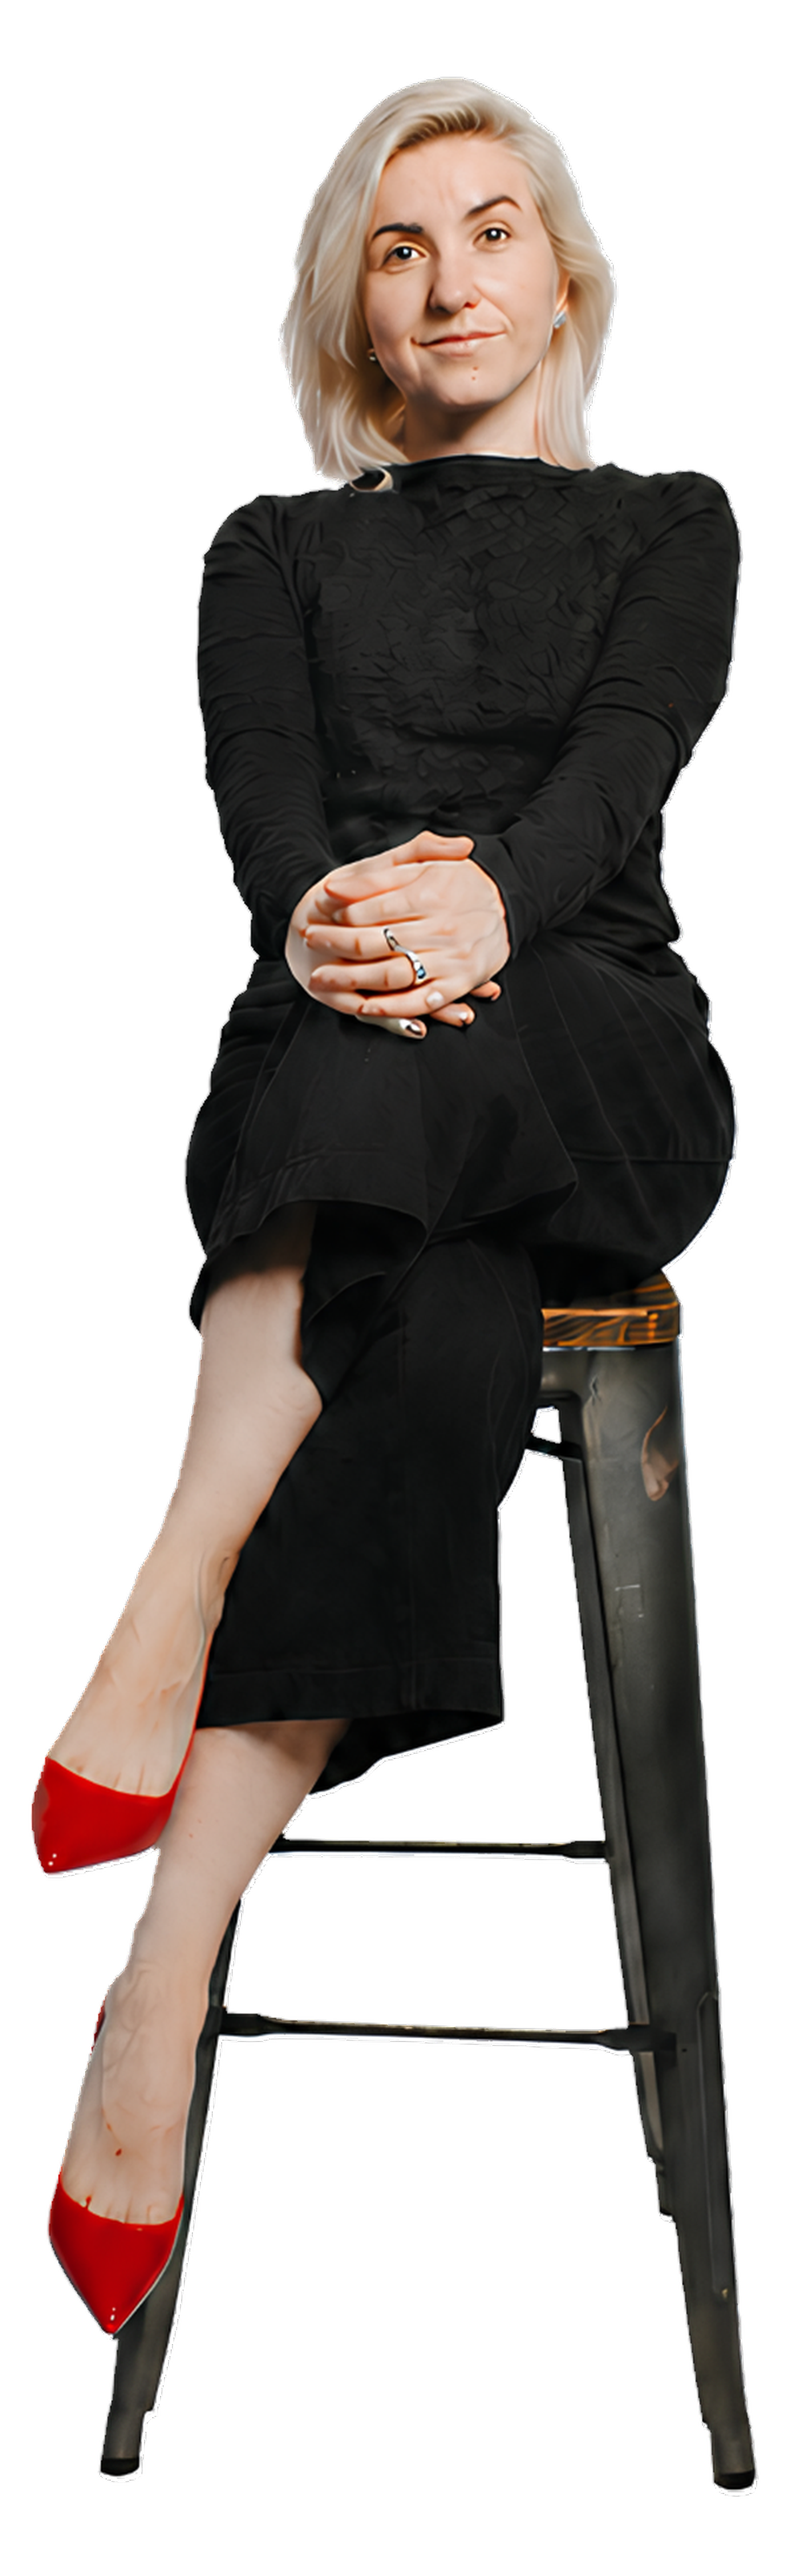
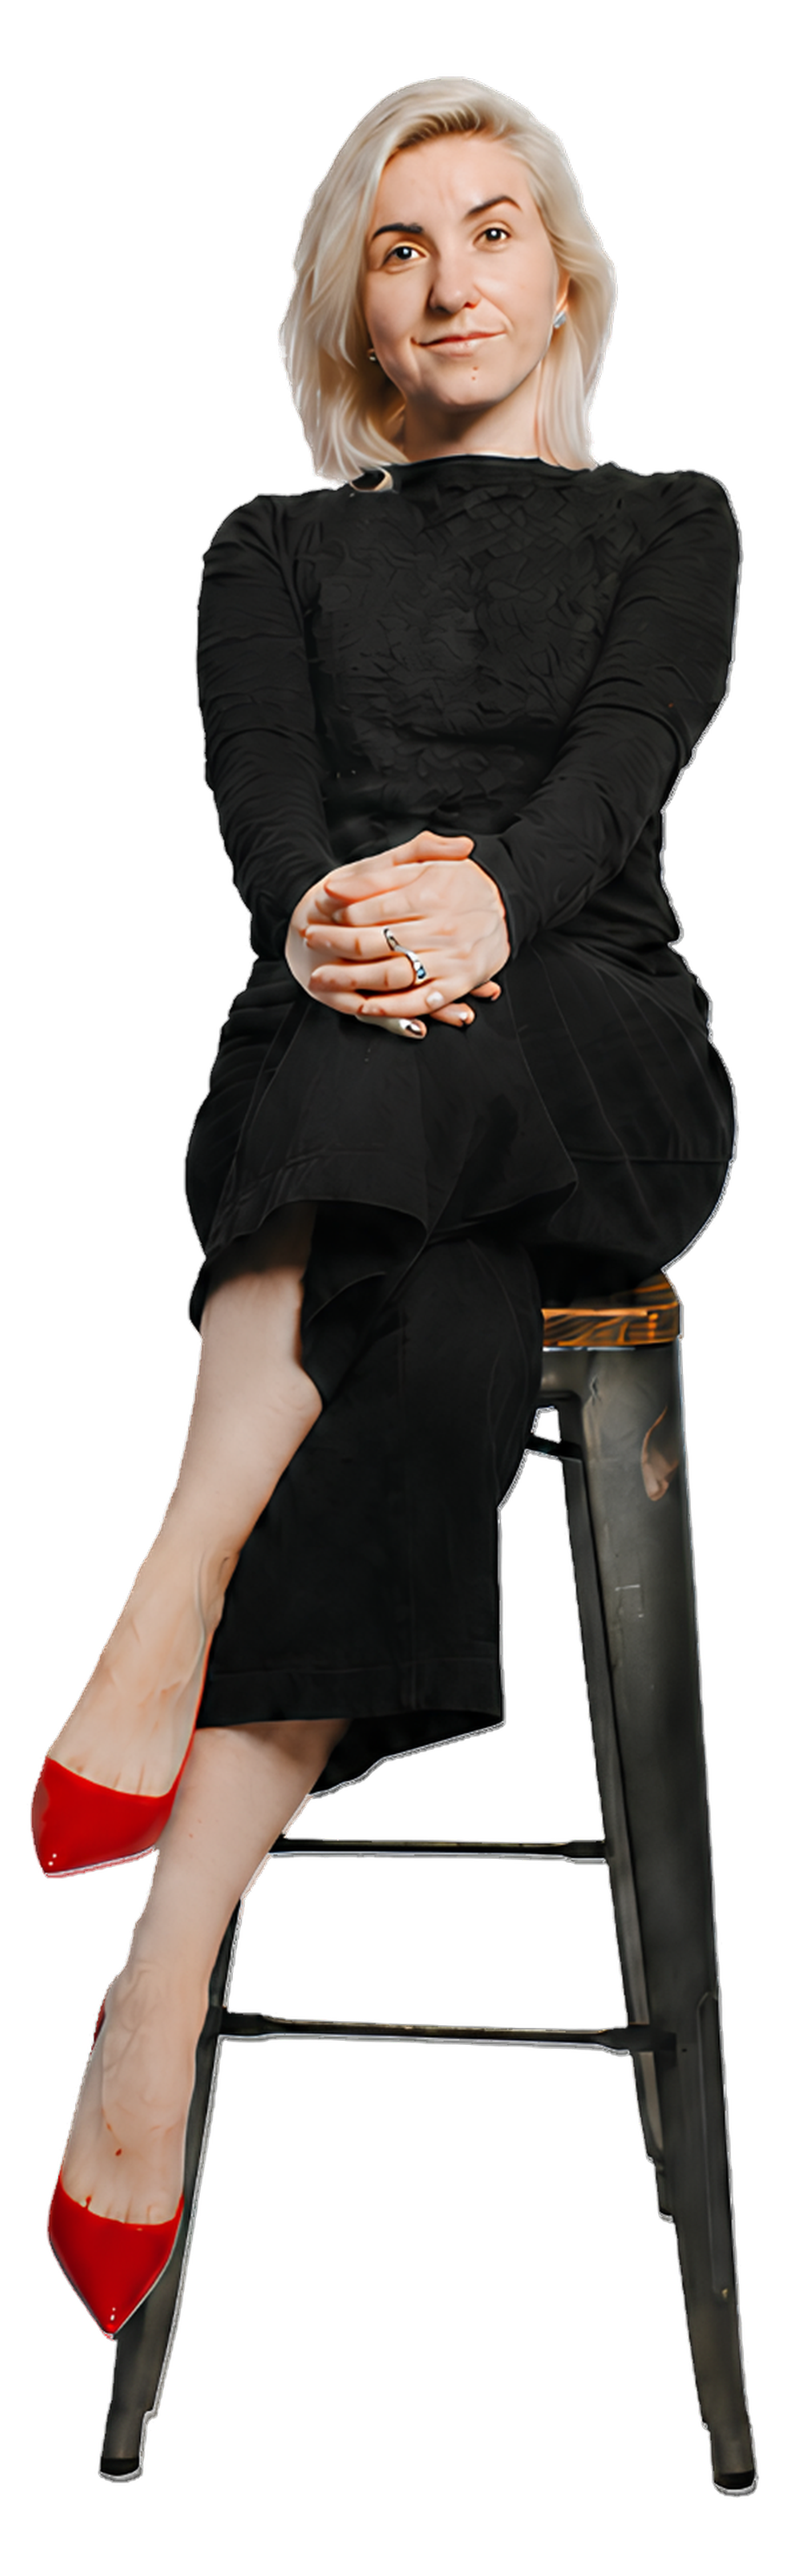
Publish thin-type HQ hero with clean portrait layer

diff --git a/v2/approved.html b/v2/approved.html
@@ -3,35 +3,58 @@
 <head>
 <meta charset="utf-8">
 <meta name="viewport" content="width=device-width,initial-scale=1,viewport-fit=cover">
-<meta name="theme-color" content="#e9ded3">
+<meta name="theme-color" content="#e8d8c9">
+<meta name="description" content="Алина Васильева — бизнес-трекер, коммерческий директор / CCO, Head of Business Development.">
 <title>Алина Васильева — Growth Needs Space</title>
+<link rel="preload" as="image" href="assets/hero-v5-desktop-3840x2160.avif" media="(min-width:1280px)">
+<link rel="preload" as="image" href="assets/hero-v5-mobile-1440x2560.avif" media="(max-width:1279px)">
 <style>
-@font-face{font-family:Editorial;src:url('../assets/noto-serif-display-cyrillic-wght-normal-BkRNFNOU.woff2') format('woff2');font-style:normal;font-weight:100 900;font-display:swap}
-@font-face{font-family:Manrope;src:url('../assets/manrope-cyrillic-wght-normal-Dvxsihut.woff2') format('woff2');font-style:normal;font-weight:100 900;font-display:swap}
-:root{--ink:#181410;--muted:#6d6259;--accent:#c84633;--page:#e9ded3;--pad:clamp(34px,3.2vw,62px);--serif:Editorial,'Bodoni MT',Didot,Georgia,serif;--sans:Manrope,Arial,sans-serif}
-*{box-sizing:border-box}html,body{margin:0;min-height:100%;background:var(--page);color:var(--ink)}body{font-family:var(--sans);overflow-x:hidden;-webkit-font-smoothing:antialiased;text-rendering:optimizeLegibility}a{color:inherit;text-decoration:none}img{display:block}.hero{position:relative;min-height:100svh;overflow:hidden;background:var(--page)}
-.scene,.scene picture,.scene picture img{position:absolute;inset:0;width:100%;height:100%}.scene{z-index:0}.scene img{object-fit:cover;object-position:center center;max-width:none;image-rendering:auto}
-.header{position:absolute;z-index:20;left:var(--pad);right:var(--pad);top:0;height:72px;display:flex;align-items:center;justify-content:space-between;border-bottom:1px solid rgba(24,20,16,.20)}.brand{font-family:var(--serif);font-size:29px;font-weight:270;line-height:1;letter-spacing:-.075em}.nav{display:flex;align-items:center;gap:clamp(25px,2.2vw,40px);font-size:10px;font-weight:700;letter-spacing:.035em;text-transform:uppercase}.burger{display:none}
-.word{position:absolute;z-index:8;top:19.2%;font-family:var(--serif);font-weight:260;font-size:clamp(100px,7.05vw,138px);line-height:.79;letter-spacing:-.058em;text-transform:uppercase;white-space:nowrap}.growth{left:3.2%;}.needs{left:68.4%;font-size:clamp(97px,6.70vw,132px)}.needs span{display:block}.needs .accent{color:var(--accent);margin-top:.07em}
-.portrait-wrap{position:absolute;z-index:6;left:50%;top:72px;bottom:0;width:28.8%;transform:translateX(-50%);display:flex;align-items:flex-end;justify-content:center;pointer-events:none}.portrait{width:auto;height:70.8%;max-width:94%;max-height:calc(100% - 32px);object-fit:contain;object-position:center bottom;margin-bottom:8.3%;filter:none!important}
-.copy{position:absolute;z-index:9;left:3.4%;top:46.3%;width:min(430px,28.5vw)}.copy h1{margin:0;font-size:20px;line-height:1.05;font-weight:760;letter-spacing:-.03em}.role{margin-top:8px;color:var(--muted);font-size:10px;line-height:1.45;font-weight:650;text-transform:uppercase;letter-spacing:.035em}.lead{display:grid;gap:13px;margin-top:25px;font-size:13px;line-height:1.48;letter-spacing:-.01em}.lead p{margin:0}.cta{display:inline-block;margin-top:18px;color:var(--accent);font-size:10.4px;font-weight:750;letter-spacing:.06em;text-transform:uppercase;padding-bottom:7px;border-bottom:1px solid var(--accent)}
-.telegram{position:absolute;z-index:9;left:68.4%;top:61.4%;width:min(310px,22vw);padding-top:14px;border-top:1px solid rgba(24,20,16,.25)}.telegram small{display:block;color:var(--muted);font-size:9px;letter-spacing:.095em}.telegram strong{display:block;margin-top:9px;font-size:18px;font-weight:500;letter-spacing:-.025em}
-.facts{position:absolute;z-index:9;left:3.1%;right:3.1%;bottom:3.0%;display:grid;grid-template-columns:1fr 1fr 1.25fr;gap:8vw;align-items:end}.fact strong{display:block;font-family:var(--serif);font-size:clamp(25px,1.65vw,33px);font-weight:280;line-height:.95;letter-spacing:-.04em;white-space:nowrap}.fact span{display:block;margin-top:7px;color:var(--muted);font-size:7.7px;font-weight:650;letter-spacing:.055em;text-transform:uppercase}.fact:last-child{justify-self:end;width:min(360px,100%)}
-@media(min-width:1900px) and (min-aspect-ratio:2/1){.portrait-wrap{width:26.8%}.growth{left:4.0%;}.needs{left:70.2%}.copy{left:4.0%}.telegram{left:70.2%}.facts{left:4%;right:4%}}
-@media(max-width:1279px){.hero{min-height:0;overflow:visible;padding-bottom:48px}.header{position:relative;height:64px;border-bottom:0}.nav{display:none}.burger{display:block;width:36px;height:36px;position:relative}.burger:before,.burger:after,.burger i{content:"";position:absolute;left:1px;right:1px;height:1.5px;background:var(--ink)}.burger:before{top:9px}.burger i{top:17px}.burger:after{top:25px}.visual{position:relative;width:100%;aspect-ratio:4/3;overflow:hidden}.scene{position:absolute}.word{top:10%;left:var(--pad);font-size:clamp(72px,10.4vw,108px)}.needs{top:22%;left:var(--pad);font-size:clamp(66px,9.5vw,98px)}.portrait-wrap{top:0;bottom:0;width:52%;}.portrait{height:81%;margin-bottom:4.8%}.copy,.telegram,.facts{position:relative;left:auto;right:auto;top:auto;bottom:auto;width:min(680px,calc(100% - 2*var(--pad)));margin-left:auto;margin-right:auto}.copy{margin-top:34px}.telegram{margin-top:30px}.facts{margin-top:32px;padding-top:20px;border-top:1px solid rgba(24,20,16,.12);gap:24px}.fact:last-child{justify-self:stretch;width:auto}}
-@media(max-width:767px){:root{--pad:22px}.header{height:62px}.brand{font-size:28px}.visual{aspect-ratio:9/16}.scene img{object-position:center center}.word{left:var(--pad);font-weight:260}.growth{top:6.7%;font-size:clamp(50px,14.5vw,64px)}.needs{top:13.0%;font-size:clamp(47px,13.6vw,60px);line-height:.78}.needs .accent{margin-top:.035em}.portrait-wrap{left:0;right:0;top:0;bottom:0;width:100%;transform:none}.portrait{height:45.5%;max-width:50%;margin:0 auto 8.7%;}.copy{width:calc(100% - 2*var(--pad));margin-top:28px}.copy h1{font-size:20px}.role{font-size:9.4px}.lead{margin-top:20px;font-size:13px;line-height:1.58}.telegram{width:calc(100% - 2*var(--pad));margin-top:28px}.facts{width:calc(100% - 2*var(--pad));grid-template-columns:1fr;margin-top:30px;padding-top:0;gap:0}.fact{padding:15px 0;border-top:1px solid rgba(24,20,16,.10)}.fact strong,.fact:last-child strong{font-size:28px}.fact span{font-size:8px}.fact:last-child{padding-bottom:0}}
+@font-face{font-family:Editorial;src:url('../assets/noto-serif-display-cyrillic-wght-normal-BkRNFNOU.woff2') format('woff2');font-weight:100 900;font-style:normal;font-display:swap}
+@font-face{font-family:Manrope;src:url('../assets/manrope-cyrillic-wght-normal-Dvxsihut.woff2') format('woff2');font-weight:100 900;font-style:normal;font-display:swap}
+:root{--ink:#17130f;--muted:#6f6257;--accent:#c94935;--page:#e8d8c9;--serif:Editorial,Didot,'Bodoni MT',Georgia,serif;--sans:Manrope,Arial,sans-serif;--pad:clamp(30px,3.2vw,62px)}
+*{box-sizing:border-box}html{background:var(--page)}html,body{margin:0;min-height:100%;background:var(--page);color:var(--ink)}body{font-family:var(--sans);overflow-x:hidden;-webkit-font-smoothing:antialiased;text-rendering:optimizeLegibility}a{color:inherit;text-decoration:none}img{display:block}.hero{position:relative;min-height:100svh;background:var(--page);overflow:hidden}.visual{position:absolute;inset:0;z-index:0;overflow:hidden}.scene,.scene picture,.scene picture img{position:absolute;inset:0;width:100%;height:100%}.scene{z-index:0}.scene img{object-fit:cover;object-position:center center;max-width:none;image-rendering:auto}.scene:after{content:"";position:absolute;z-index:2;left:0;right:0;bottom:-2px;height:12vh;pointer-events:none;background:linear-gradient(to bottom,rgba(232,216,201,0),rgba(232,216,201,.48) 45%,var(--page) 100%)}
+.header{position:absolute;z-index:30;left:var(--pad);right:var(--pad);top:0;height:72px;display:flex;align-items:center;justify-content:space-between;background:transparent}.brand{font-family:var(--serif);font-variation-settings:'wght' 250;font-weight:250;font-size:31px;line-height:1;letter-spacing:-.095em}.nav{display:flex;align-items:center;gap:clamp(24px,2vw,38px);font-size:10px;font-weight:700;text-transform:uppercase;letter-spacing:.045em}.burger{display:none;position:relative;width:38px;height:38px;padding:0;border:0;background:transparent}.burger:before,.burger:after,.burger span{content:"";position:absolute;right:0;width:31px;height:2px;background:var(--ink)}.burger:before{top:9px}.burger span{top:18px}.burger:after{top:27px}
+.headline{position:absolute;z-index:12;top:18.4%;font-family:var(--serif);font-variation-settings:'wght' 260;font-weight:260;text-transform:uppercase;line-height:.79;letter-spacing:-.061em;white-space:nowrap}.growth{left:3.6%;font-size:clamp(104px,7.0vw,140px);max-width:31vw}.needs{left:68.4%;font-size:clamp(99px,6.68vw,134px)}.needs span{display:block}.needs .space{color:var(--accent);margin-top:.07em}
+.portrait-stage{position:absolute;z-index:8;left:50%;top:72px;bottom:0;width:29.4%;transform:translateX(-50%);display:flex;justify-content:center;align-items:flex-end;pointer-events:none}.portrait{width:auto;height:71.6%;max-width:94%;max-height:calc(100% - 34px);object-fit:contain;object-position:center bottom;margin-bottom:7.4%;filter:none!important}
+.intro{position:absolute;z-index:15;left:3.6%;top:43.4%;width:min(430px,29vw)}.intro h1{margin:0;font-size:20px;line-height:1.06;font-weight:780;letter-spacing:-.025em}.role{margin-top:8px;color:var(--muted);font-size:10.2px;line-height:1.48;font-weight:650;text-transform:uppercase;letter-spacing:.035em}.copy{display:grid;gap:14px;margin-top:27px;font-size:13.1px;line-height:1.5;letter-spacing:-.008em}.copy p{margin:0}.cta{display:inline-block;margin-top:20px;color:var(--accent);font-size:10.5px;font-weight:800;text-transform:uppercase;letter-spacing:.07em;padding-bottom:8px;border-bottom:1px solid currentColor}
+.telegram{position:absolute;z-index:15;left:68.4%;top:60.5%;width:min(310px,22vw);padding-top:14px;border-top:1px solid rgba(23,19,15,.25)}.telegram small{display:block;color:var(--muted);font-size:9px;letter-spacing:.10em}.telegram strong{display:block;margin-top:9px;font-size:18px;font-weight:500;letter-spacing:-.025em}
+.facts{position:absolute;z-index:15;left:3.2%;right:3.2%;bottom:3%;display:grid;grid-template-columns:1fr 1fr 1.35fr;gap:8vw;align-items:end}.fact strong{display:block;font-family:var(--serif);font-variation-settings:'wght' 280;font-weight:280;font-size:clamp(27px,1.72vw,34px);line-height:.95;letter-spacing:-.042em;white-space:nowrap}.fact span{display:block;margin-top:8px;color:var(--muted);font-size:7.8px;font-weight:650;text-transform:uppercase;letter-spacing:.06em}.fact:last-child{justify-self:end;width:min(390px,100%)}
+@media(min-width:1900px) and (min-aspect-ratio:2/1){.portrait-stage{width:26.8%}.growth{left:4%}.needs{left:70.1%}.intro{left:4%}.telegram{left:70.1%}.facts{left:4%;right:4%}}
+@media(min-width:1280px) and (max-height:820px){.header{height:60px}.portrait-stage{top:60px}.headline{top:14.4%}.growth{font-size:clamp(92px,6.6vw,118px)}.needs{font-size:clamp(88px,6.2vw,112px)}.intro{top:40.5%;width:min(390px,28vw)}.copy{margin-top:18px;gap:10px;font-size:11.8px}.telegram{top:56.8%}.portrait{height:78%;margin-bottom:5.5%}.facts{bottom:2.5%}}
+@media(max-width:1279px){
+ :root{--pad:clamp(22px,4vw,38px)}
+ .hero{min-height:0;overflow:visible}.visual{position:relative;inset:auto;min-height:940px;overflow:hidden;background:var(--page)}
+ .header{height:70px;left:var(--pad);right:var(--pad)}.brand{font-size:34px;letter-spacing:-.09em}.nav{display:none}.burger{display:block}
+ .headline{left:var(--pad);top:124px;font-size:clamp(67px,10.7vw,105px);line-height:.77}.growth{max-width:none}.needs{left:var(--pad);top:205px;font-size:clamp(62px,9.9vw,96px)}.needs .space{margin-top:.02em}
+ .scene img{object-position:center 48%}.scene:after{height:17vh;background:linear-gradient(to bottom,rgba(232,216,201,0),rgba(232,216,201,.42) 42%,var(--page) 100%)}
+ .portrait-stage{left:0;right:0;top:0;bottom:0;width:auto;transform:none;align-items:flex-end}.portrait{height:67%;max-width:92%;margin-bottom:2.4%}
+ .intro,.telegram,.facts{position:relative;left:auto;right:auto;top:auto;bottom:auto;width:min(720px,calc(100% - 2*var(--pad)));margin-left:auto;margin-right:auto}
+ .intro{padding-top:34px}.intro h1{font-size:25px}.role{font-size:11px}.copy{margin-top:28px;font-size:15px;line-height:1.58;gap:19px}.cta{margin-top:28px;font-size:11px}
+ .telegram{margin-top:40px;padding-top:0;border-top:0}.telegram small{font-size:9.5px}.telegram strong{font-size:20px;margin-top:8px}
+ .facts{margin-top:44px;margin-bottom:0;display:grid;grid-template-columns:1fr;gap:0;border-top:1px solid rgba(23,19,15,.11);padding-bottom:44px}.fact{padding:22px 0;border-bottom:1px solid rgba(23,19,15,.09)}.fact strong{font-size:34px}.fact span{font-size:8.5px}.fact:last-child{justify-self:stretch;width:auto}
+}
+@media(max-width:767px){
+ :root{--pad:clamp(20px,5.5vw,26px)}
+ .visual{min-height:860px}.header{height:66px}.brand{font-size:32px}.burger{width:34px;height:34px}.burger:before,.burger:after,.burger span{width:30px}
+ .headline{top:112px;font-size:clamp(56px,15.1vw,68px)}.needs{top:178px;font-size:clamp(54px,14.3vw,65px)}
+ .scene img{object-position:center center}.portrait{height:63%;max-width:96%;margin-bottom:1.2%}
+ .intro{width:calc(100% - 2*var(--pad));padding-top:32px}.intro h1{font-size:21px}.role{margin-top:9px;font-size:9.7px;line-height:1.5}.copy{margin-top:27px;font-size:14px;line-height:1.62;gap:20px}.cta{margin-top:26px;font-size:10.3px;padding-bottom:9px}
+ .telegram{width:calc(100% - 2*var(--pad));margin-top:37px}.telegram small{font-size:9px}.telegram strong{font-size:20px}.facts{width:calc(100% - 2*var(--pad));margin-top:40px;padding-bottom:40px}.fact{padding:19px 0}.fact strong{font-size:31px}.fact span{font-size:8px}
+}
+@media(max-width:410px){.visual{min-height:830px}.headline{font-size:14.6vw}.needs{top:calc(112px + 15.8vw);font-size:13.9vw}.portrait{height:61.5%;margin-bottom:1%}}
 </style>
 </head>
 <body>
 <main class="hero" id="hero">
-<header class="header"><a class="brand" href="#hero">AV</a><nav class="nav"><a href="#hero">Обо мне</a><a href="../#services">Услуги</a><a href="../#cases">Кейсы</a><a href="../#experience">Опыт</a><a href="../#contact">Контакты</a></nav><div class="burger" aria-label="Меню"><i></i></div></header>
-<div class="visual">
-<section class="scene" aria-label="Архитектурная композиция"><picture><source media="(max-width:767px)" srcset="assets/hero-v5-mobile-1440x2560.avif"><img src="assets/hero-v5-desktop-3840x2160.avif" width="3840" height="2160" alt="" fetchpriority="high"></picture></section>
-<div class="word growth">GROWTH</div><div class="word needs"><span>NEEDS</span><span class="accent">SPACE</span></div>
-<div class="portrait-wrap"><img class="portrait" src="assets/alina-portrait-final-nohalo.png?v=v5" width="1190" height="3876" alt="Алина Васильева" fetchpriority="high"></div>
-</div>
-<section class="copy"><h1>АЛИНА ВАСИЛЬЕВА</h1><div class="role">БИЗНЕС-ТРЕКЕР · КОММЕРЧЕСКИЙ ДИРЕКТОР / CCO ·<br>HEAD OF BUSINESS DEVELOPMENT</div><div class="lead"><p>Строю коммерческие системы и точки роста: соединяю продажи, маркетинг, процессы, аналитику и команду в управляемую модель результата.</p><p>Работаю с собственниками и C-level — от диагностики и стратегии до внедрения изменений и измеримого эффекта.</p></div><a class="cta" href="../#contact">РЕШИТЬ БИЗНЕС-ЗАДАЧУ →</a></section>
-<a class="telegram" href="https://t.me/AlinaVasileva" target="_blank" rel="noopener"><small>TELEGRAM</small><strong>@AlinaVasileva</strong></a>
-<section class="facts"><div class="fact"><strong>12 ЛЕТ</strong><span>УПРАВЛЕНЧЕСКОГО ОПЫТА</span></div><div class="fact"><strong>600+</strong><span>КОММЕРЧЕСКИХ ПРОЕКТОВ</span></div><div class="fact"><strong>БОЛЕЕ 500 МЛН</strong><span>ПОМОГЛА ЗАРАБОТАТЬ КОМПАНИЯМ</span></div></section>
+  <section class="visual" aria-label="Архитектурная композиция с портретом Алины Васильевой">
+    <div class="scene" aria-hidden="true"><picture><source media="(max-width:1279px)" srcset="assets/hero-v5-mobile-1440x2560.avif"><img src="assets/hero-v5-desktop-3840x2160.avif" width="3840" height="2160" alt="" loading="eager" fetchpriority="high" decoding="async"></picture></div>
+    <header class="header"><a class="brand" href="#hero" aria-label="Алина Васильева">AV</a><nav class="nav"><a href="#hero">Обо мне</a><a href="../#services">Услуги</a><a href="../#cases">Кейсы</a><a href="../#experience">Опыт</a><a href="../#contact">Контакты</a></nav><button class="burger" type="button" aria-label="Меню"><span></span></button></header>
+    <div class="headline growth">GROWTH</div><div class="headline needs"><span>NEEDS</span><span class="space">SPACE</span></div>
+    <div class="portrait-stage"><img class="portrait" src="assets/alina-portrait-final-nohalo.png?v=v6" alt="Алина Васильева в чёрном костюме сидит на высоком стуле в красных туфлях" width="1190" height="3876" loading="eager" fetchpriority="high" decoding="async"></div>
+  </section>
+  <section class="intro"><h1>АЛИНА ВАСИЛЬЕВА</h1><div class="role">БИЗНЕС-ТРЕКЕР · КОММЕРЧЕСКИЙ ДИРЕКТОР / CCO ·<br>HEAD OF BUSINESS DEVELOPMENT</div><div class="copy"><p>Строю коммерческие системы и точки роста: соединяю продажи, маркетинг, процессы, аналитику и команду в управляемую модель результата.</p><p>Работаю с собственниками и C-level — от диагностики и стратегии до внедрения изменений и измеримого эффекта.</p></div><a class="cta" href="../#contact">РЕШИТЬ БИЗНЕС-ЗАДАЧУ →</a></section>
+  <a class="telegram" href="https://t.me/AlinaVasileva" target="_blank" rel="noopener"><small>TELEGRAM</small><strong>@AlinaVasileva</strong></a>
+  <section class="facts"><div class="fact"><strong>12 ЛЕТ</strong><span>УПРАВЛЕНЧЕСКОГО ОПЫТА</span></div><div class="fact"><strong>600+</strong><span>КОММЕРЧЕСКИХ ПРОЕКТОВ</span></div><div class="fact"><strong>БОЛЕЕ 500 МЛН</strong><span>ПОМОГЛА ЗАРАБОТАТЬ КОМПАНИЯМ</span></div></section>
 </main>
-</body></html>
+</body>
+</html>
